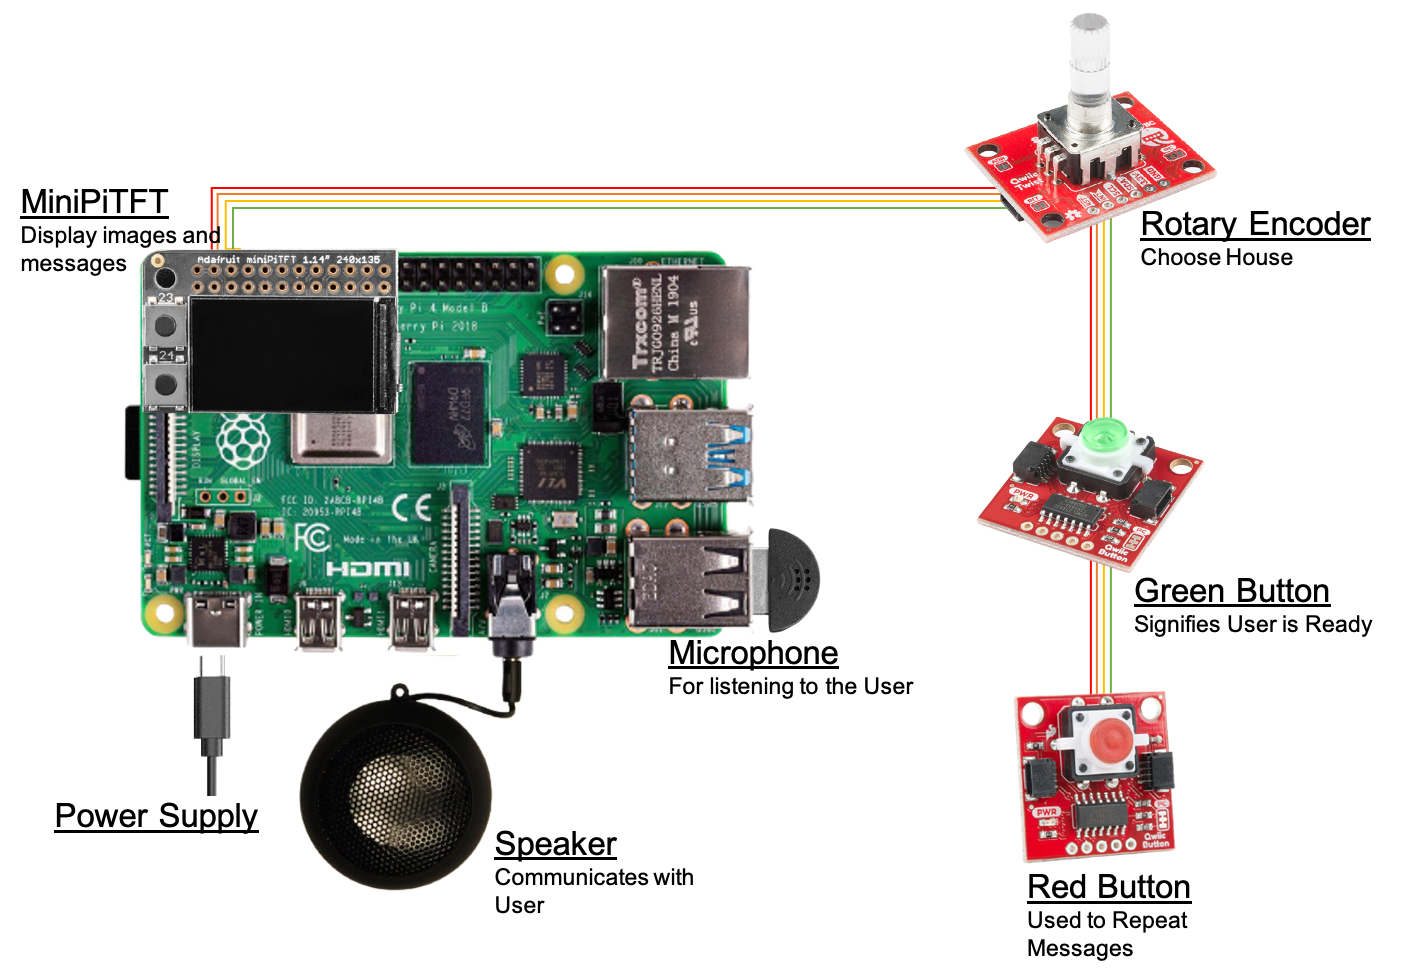
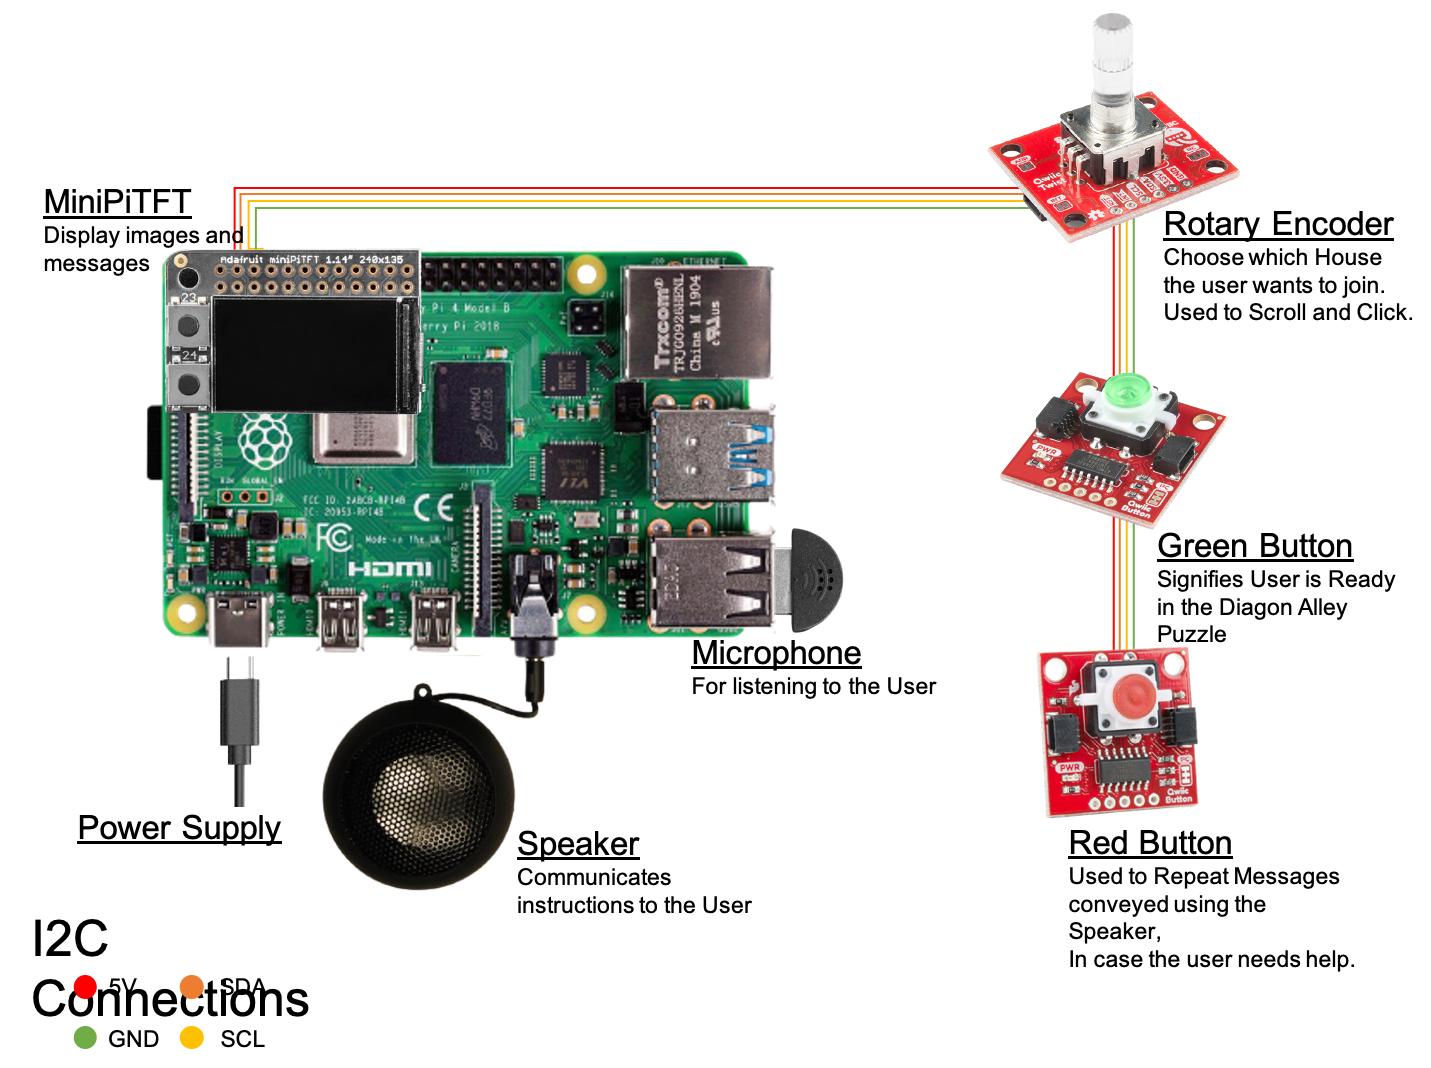
Updated readme

diff --git a/Lab 3/README.md b/Lab 3/README.md
@@ -95,21 +95,26 @@ For this demo, we use:
 *Include videos or screencaptures of both the system and the controller.*
 
 ## Test the system
-Try to get at least two people to interact with your system. (Ideally, you would inform them that there is a wizard _after_ the interaction, but we recognize that can be hard.)
-
-Answer the following:
+We had at least two people interact with this system and review the interactions and setup.
 
 ### What worked well about the system and what didn't?
-*your answer here*
+
+The concept of Harry Potter worked well, as some people were excited to see what the device could do. Use of rotary encoder to select the House based on the display (MiniPiTFT) was well received.
+
+One disadvantage of the system was the voice output. It was not very clear, and could not convey messages with a certain emotion (such as excitement, or disappointment). It would have been interesting to use the voice from one of the Harry Potter characters (maybe, Professor McGonagall).
 
 ### What worked well about the controller and what didn't?
 
-*your answer here*
+The Controller used for this experiment is user input based on 1's and 0's. Every action has 2 paths, the decision of which depends on what is entered into the terminal by the person controlling the interaction. This makes the interaction swift, and follows a fixed expected pattern.
+
+The fixed pattern, however, is also a downside for this setup. The system is limited to only 2 responses per question. It cannot help the user if they have any questions.
 
 ### What lessons can you take away from the WoZ interactions for designing a more autonomous version of the system?
 
-*your answer here*
-
+Some observations that were made during user interactions where:
+* The system was unable to answer queries so having support would be useful in a more autonomous version.
+* If building an autonomous system, we could have more conditional branches as opposed to 2 used in this simple version.
+* The users knew the device was rigged because it could understand all their commands perfectly. It is interesting to note that users expected the device to misunderstand.
 
 ### How could you use your system to create a dataset of interaction? What other sensing modalities would make sense to capture?
 
